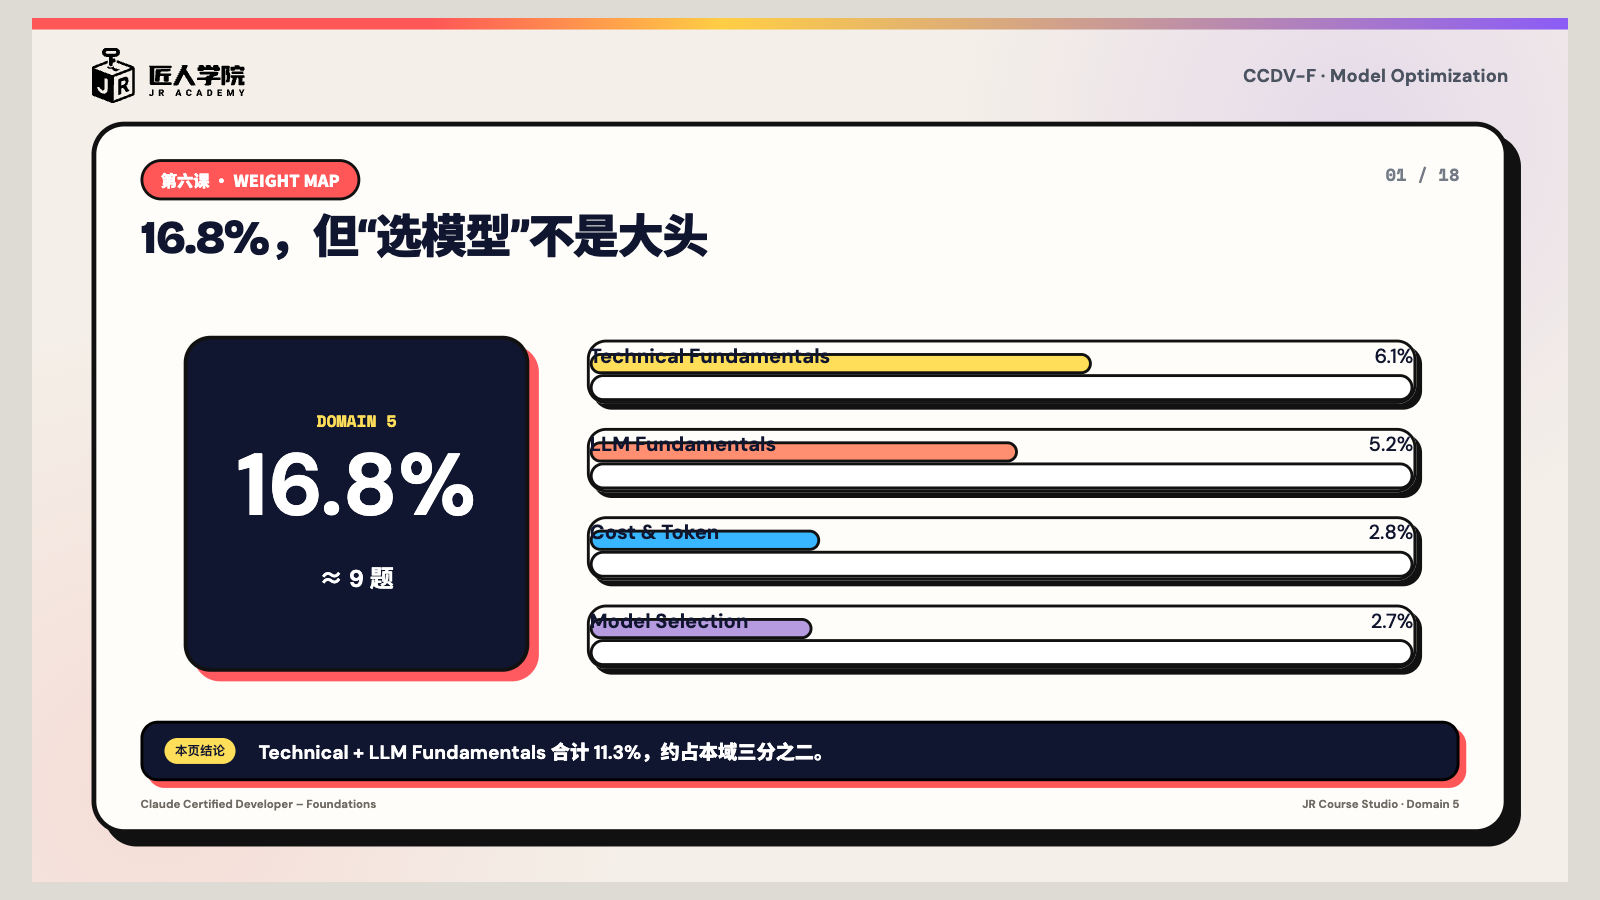
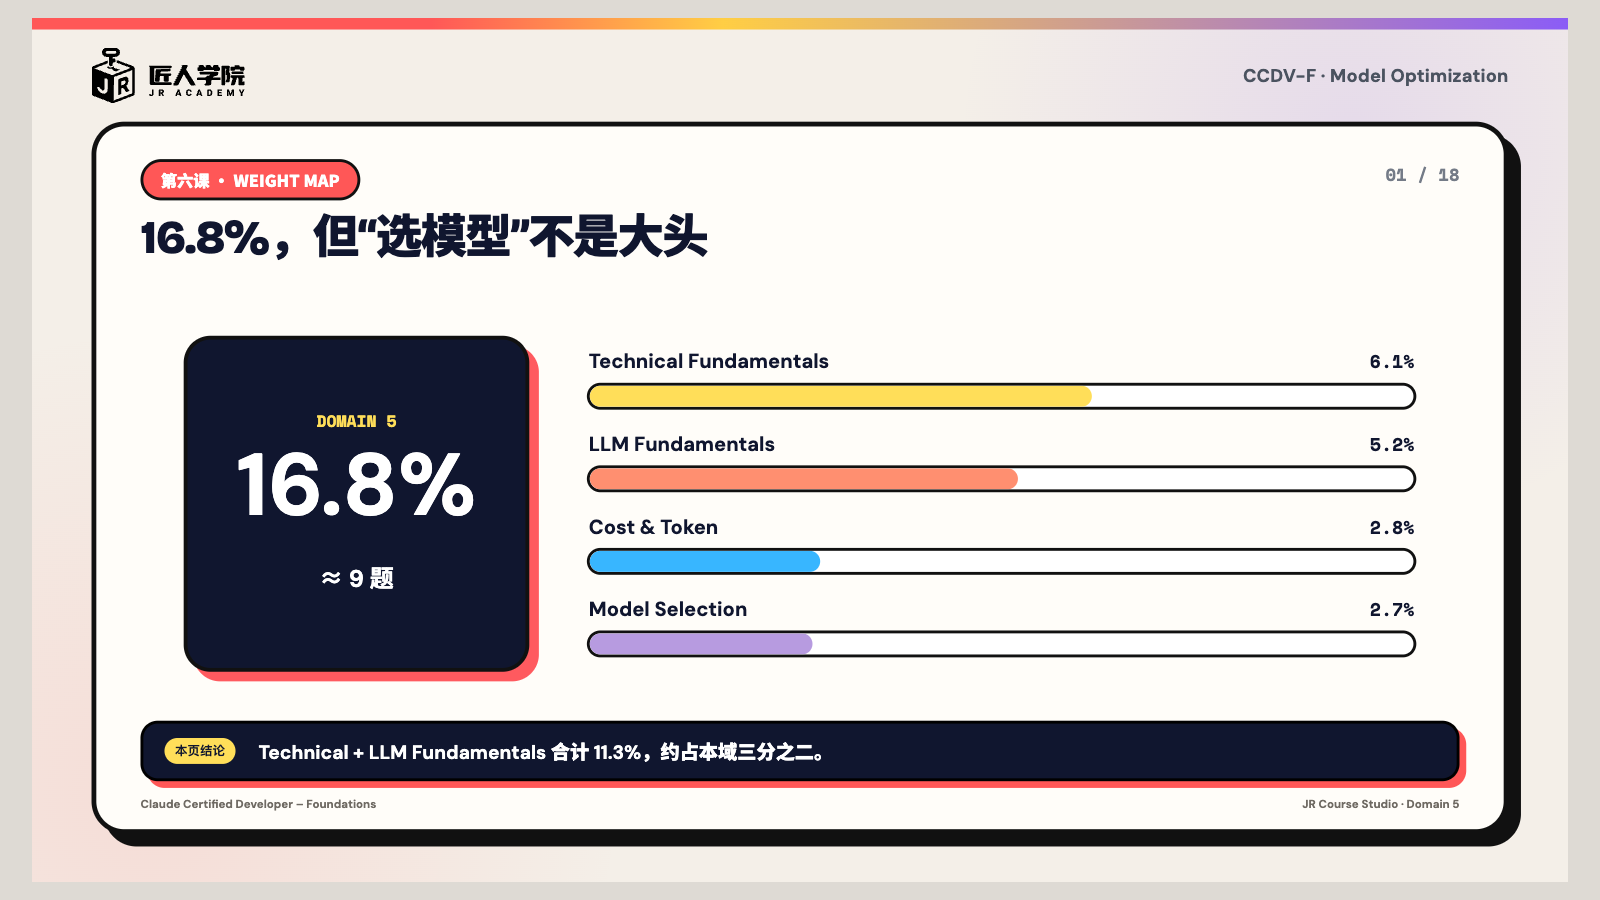
fix(classroom): align CCDV-F weight map bars

Changed region(s): [[0.3438, 0.3733, 0.9062, 0.7778]]

diff --git a/lessons/ccdv-f-model-selection-optimization/src/optStyles.css b/lessons/ccdv-f-model-selection-optimization/src/optStyles.css
@@ -1,4 +1,4 @@
-.opt-weight{height:100%;display:grid;grid-template-columns:360px 1fr;gap:60px;align-items:center;padding:10px 45px}.opt-weight>section{height:350px;display:flex;flex-direction:column;align-items:center;justify-content:center;background:#10162f;color:#fff;border:4px solid #111;border-radius:28px;box-shadow:10px 10px 0 #ff5a5f}.opt-weight>section span{color:#ffde59;font:800 17px/1 "Space Mono",monospace}.opt-weight>section strong{font-size:91px}.opt-weight>section b{margin-top:18px;font-size:25px}.weight-bars{display:grid;gap:25px}.weight-bars article>div{display:flex;justify-content:space-between;margin-bottom:8px}.weight-bars strong,.weight-bars span{font-size:21px}.weight-bars article:after{content:"";display:block;height:22px;border:3px solid #111;border-radius:99px;background:#fff}.weight-bars i{display:block;height:22px;margin-top:-25px;border:3px solid #111;border-radius:99px;background:#ffde59}.weight-bars article:nth-child(2) i{background:#ff8f70}.weight-bars article:nth-child(3) i{background:#38b6ff}.weight-bars article:nth-child(4) i{background:#b79be0}
+.opt-weight{height:100%;display:grid;grid-template-columns:360px 1fr;gap:60px;align-items:center;padding:10px 45px}.opt-weight>section{height:350px;display:flex;flex-direction:column;align-items:center;justify-content:center;background:#10162f;color:#fff;border:4px solid #111;border-radius:28px;box-shadow:10px 10px 0 #ff5a5f}.opt-weight>section span{color:#ffde59;font:800 17px/1 "Space Mono",monospace}.opt-weight>section strong{font-size:91px}.opt-weight>section b{margin-top:18px;font-size:25px}.weight-bars{display:grid;gap:24px;align-content:center}.weight-bars .weight-bar{padding:0;border:0;border-radius:0;background:transparent;box-shadow:none}.weight-bar-heading{display:flex;align-items:baseline;justify-content:space-between;gap:24px;margin:0 2px 10px}.weight-bar-heading strong{font-size:21px;line-height:1.15}.weight-bar-heading span{flex:0 0 auto;font:700 19px/1 "Space Mono",monospace}.weight-bar-track{height:28px;overflow:hidden;border:3px solid #111;border-radius:99px;background:#fff}.weight-bar-track i{display:block;height:100%;margin:0;border:0;border-radius:99px;background:#ffde59}.weight-bars article:nth-child(2) i{background:#ff8f70}.weight-bars article:nth-child(3) i{background:#38b6ff}.weight-bars article:nth-child(4) i{background:#b79be0}
 .token-chain{height:130px;display:grid;grid-template-columns:1fr 50px 1.3fr 50px 1.3fr 50px 1fr;align-items:center;gap:10px;padding:18px 28px;background:#10162f;color:#fff;border-radius:21px}.token-chain span,.token-chain b,.token-chain strong{padding:22px;text-align:center;border:2px solid #fff;border-radius:12px}.token-chain strong{color:#ffde59}.token-chain i{text-align:center;font-size:28px}.opt-sampling{height:100%;padding:35px 65px}.opt-two{display:grid;grid-template-columns:1fr 1fr;gap:35px;margin-top:35px}.opt-two article,.opt-cards article,.opt-shots article,.opt-cache-edges article{padding:28px;border:4px solid #111;border-radius:22px;background:#fff;box-shadow:8px 8px 0 #111}.opt-two article:first-child{background:#ffd9d7}.opt-two article:last-child{background:#dff7e8}.opt-two span,.opt-cards span,.opt-shots span,.opt-cache-edges span{font:900 17px/1 "Space Mono",monospace;color:#7b2e96}.opt-two strong,.opt-cards strong,.opt-shots strong,.opt-cache-edges strong{display:block;margin:20px 0 12px;font-size:24px}.opt-two p,.opt-cards p,.opt-shots p,.opt-cache-edges p{font-size:18px;font-weight:800}
 .opt-ceilings{height:100%;display:grid;grid-template-columns:1fr 1fr;gap:48px;padding:28px 70px}.opt-ceilings article{display:flex;flex-direction:column;justify-content:center;padding:40px;border:4px solid #111;border-radius:25px;background:#fff;box-shadow:10px 10px 0 #38b6ff}.opt-ceilings article:last-child{background:#fff0b0;box-shadow-color:#ffbf26}.opt-ceilings span{color:#7b2e96;font:900 17px/1 "Space Mono",monospace}.opt-ceilings strong{margin:30px 0;font-size:37px}.opt-ceilings p{font-size:20px;font-weight:800}.opt-ceilings b{margin-top:26px;padding-top:20px;border-top:2px solid #111;color:#087a3b;font-size:20px}
 .opt-counter{height:100%;display:grid;grid-template-columns:280px 70px 1fr;grid-template-rows:1fr 85px;gap:28px;align-items:center;padding:25px 70px}.opt-counter>div{height:260px;display:flex;flex-direction:column;justify-content:center;padding:35px;border:4px solid #111;border-radius:24px;box-shadow:9px 9px 0 #111}.opt-counter .wrong{background:#ffd9d7}.opt-counter .right{background:#dff7e8}.opt-counter>i{font-size:38px;text-align:center}.opt-counter span{font:900 16px/1 "Space Mono",monospace}.opt-counter strong{margin:26px 0;font-size:30px}.opt-counter code{font-size:17px}.opt-counter aside{grid-column:1/-1;padding:22px;background:#10162f;color:#fff;border-radius:15px;text-align:center;font-size:21px;font-weight:900}

diff --git a/lessons/ccdv-f-model-selection-optimization/src/slides/ChapterSlides.tsx b/lessons/ccdv-f-model-selection-optimization/src/slides/ChapterSlides.tsx
@@ -2,7 +2,7 @@ import type { ReactNode } from "react";
 const logoUrl = () => new URL("brand/logo-zh-full.svg", window.location.href).href;
 function Frame({number,label,title,takeaway,tone="cream",children}:{number:number;label:string;title:string;takeaway:string;tone?:"cream"|"rose"|"lavender"|"sky";children:ReactNode}){return <main className={`slide slide-${tone}`} data-deck-page data-qa-safe-zone><div className="topline"/><header className="studio-header"><img className="brand-logo" src={logoUrl()} alt="匠人学院"/><span className="course-label">CCDV-F · Model Optimization</span></header><section className="lesson-board"><div className="board-meta"><span className="eyebrow">第六课 · {label}</span><span className="progress">{String(number).padStart(2,"0")} / 18</span></div><section className="chapter-heading"><h1>{title}</h1></section><section className="slide-body">{children}</section><aside className="takeaway"><span>本页结论</span><strong>{takeaway}</strong></aside><footer><span>Claude Certified Developer – Foundations</span><strong>JR Course Studio · Domain 5</strong></footer></section></main>}
 const cards=(rows:string[][],cls="opt-cards")=><div className={cls}>{rows.map((r,i)=><article key={r.join("")} className={`o${i+1}`}><span>{r[0]}</span><strong>{r[1]}</strong>{r[2]&&<p>{r[2]}</p>}</article>)}</div>;
-function DomainWeight(){return <Frame number={1} label="WEIGHT MAP" title="16.8%，但“选模型”不是大头" takeaway="Technical + LLM Fundamentals 合计 11.3%，约占本域三分之二。"><div className="opt-weight"><section><span>DOMAIN 5</span><strong>16.8%</strong><b>≈ 9 题</b></section><div className="weight-bars">{[["Technical Fundamentals","6.1%","61"],["LLM Fundamentals","5.2%","52"],["Cost & Token","2.8%","28"],["Model Selection","2.7%","27"]].map(r=><article key={r[0]}><div><strong>{r[0]}</strong><span>{r[1]}</span></div><i style={{width:`${r[2]}%`}}/></article>)}</div></div></Frame>}
+function DomainWeight(){return <Frame number={1} label="WEIGHT MAP" title="16.8%，但“选模型”不是大头" takeaway="Technical + LLM Fundamentals 合计 11.3%，约占本域三分之二。"><div className="opt-weight"><section><span>DOMAIN 5</span><strong>16.8%</strong><b>≈ 9 题</b></section><div className="weight-bars">{[["Technical Fundamentals","6.1%","61"],["LLM Fundamentals","5.2%","52"],["Cost & Token","2.8%","28"],["Model Selection","2.7%","27"]].map(r=><article className="weight-bar" data-qa-weight-bar key={r[0]}><div className="weight-bar-heading" data-qa-weight-heading><strong>{r[0]}</strong><span>{r[1]}</span></div><div className="weight-bar-track" data-qa-weight-track><i style={{width:`${r[2]}%`}}/></div></article>)}</div></div></Frame>}
 function NonDeterminism(){return <Frame number={2} label="LLM FUNDAMENTALS" title="Temperature = 0，也不是确定性" takeaway="幂等靠代码，稳定格式靠 Schema；别要求模型逐字复现。" tone="rose"><div className="opt-sampling"><div className="token-chain"><span>INPUT</span><i>→</i><b>概率分布</b><i>→</i><strong>采样 Token</strong><i>→</i><b>下一轮</b></div>{cards([["✕","assert full_text == expected","LLM 输出不是固定字符串"],["✓","Schema / Semantic / Failure Rate","验证结构、语义与统计"]],"opt-two")}</div></Frame>}
 function TwoCeilings(){return <Frame number={3} label="TOKEN LIMITS" title="两个上限，修法完全不同" takeaway="Context 管输入+输出总量；max_tokens 只管输出。" tone="sky"><div className="opt-ceilings"><article><span>CONTEXT WINDOW</span><strong>INPUT + OUTPUT</strong><p>模型固有属性</p><b>裁剪 · 分块 · Compaction</b></article><article><span>max_tokens</span><strong>OUTPUT ONLY</strong><p>请求参数</p><b>提高上限 · 超长用 Streaming</b></article></div></Frame>}
 function TokenCounting(){return <Frame number={4} label="COUNT TOKENS" title="Token 数跟模型走，不跟字符走" takeaway="messages.count_tokens 要带 model、system、messages 和 tools。" tone="lavender"><div className="opt-counter"><div className="wrong"><span>WRONG</span><strong>tiktoken</strong><b>低估 15–20%</b></div><i>→</i><div className="right"><span>RIGHT</span><strong>messages.count_tokens</strong><code>model + system + messages + tools</code></div><aside>模型升级 → 重新估成本、上限与窗口容量</aside></div></Frame>}

diff --git a/lessons/ccdv-f-model-selection-optimization/classroom.config.ts b/lessons/ccdv-f-model-selection-optimization/classroom.config.ts
@@ -3,7 +3,7 @@ export const classroomConfig = {
   bridgeVersion: 1,
   deckId: "ccdv-f-model-selection-optimization",
   title: "CCDV-F 第六课：Model Selection and Optimization",
-  sourceVersion: "0.1.0",
+  sourceVersion: "0.1.1",
   status: "uat-release-candidate",
   slides: narration.sections.map((section) => ({ id: section.id, title: section.title, actions: section.segments.map((segment) => ({ id: segment.id, type: "speech" as const, text: segment.text, audioKey: segment.audioPath.replace(/^audio\//, ""), audioDurationMs: segment.durationMs, voice: "ElevenLabs Amy", audioStatus: narration.voiceStatus })) }))
 } as const;

diff --git a/CHANGELOG.md b/CHANGELOG.md
@@ -1,5 +1,9 @@
 # Changelog
 
+## 2026-07-21
+
+- 修复 CCDV-F 第六课第一页权重条的双重边框与标题压线排版，并增加标题和轨道不得重叠的视觉 QA 闸门（`lessons/ccdv-f-model-selection-optimization`）
+
 ## 2026-07-20
 
 - 修复 CCDV-F 第五课第 4 页中 429、500、529 HTTP 状态码的逐位数字朗读，并增加单段语音重生成入口 (`lessons/ccdv-f-eval-testing-debugging`)
